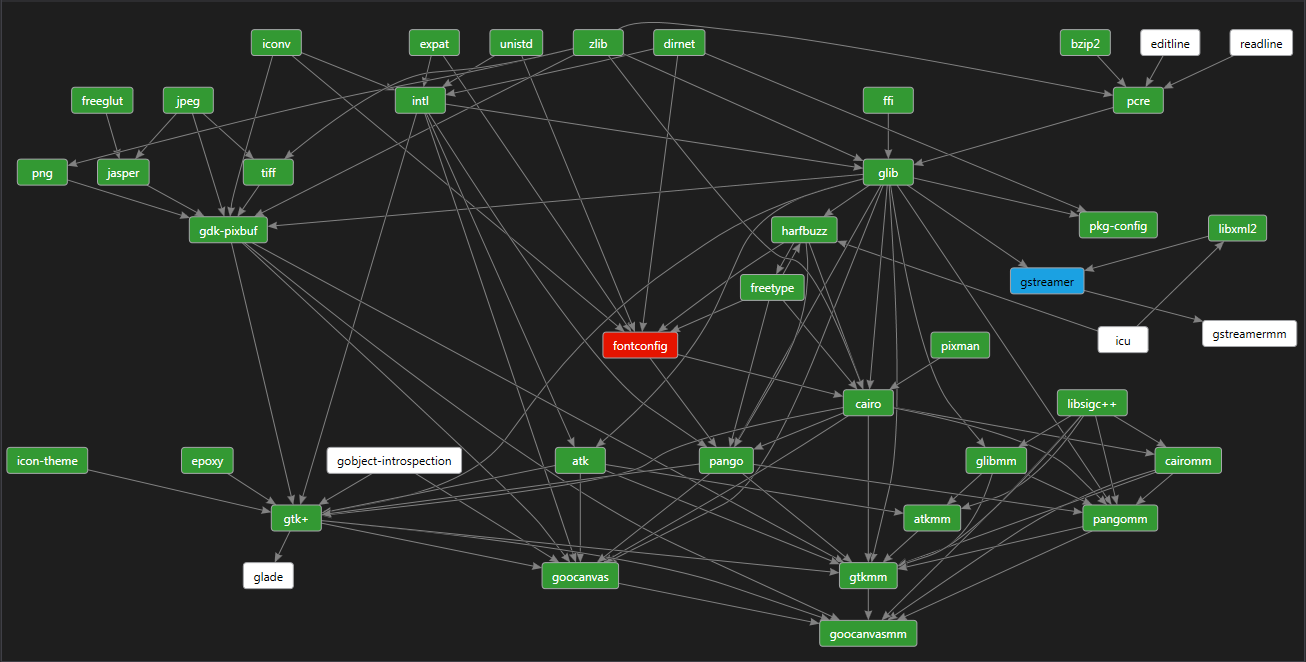
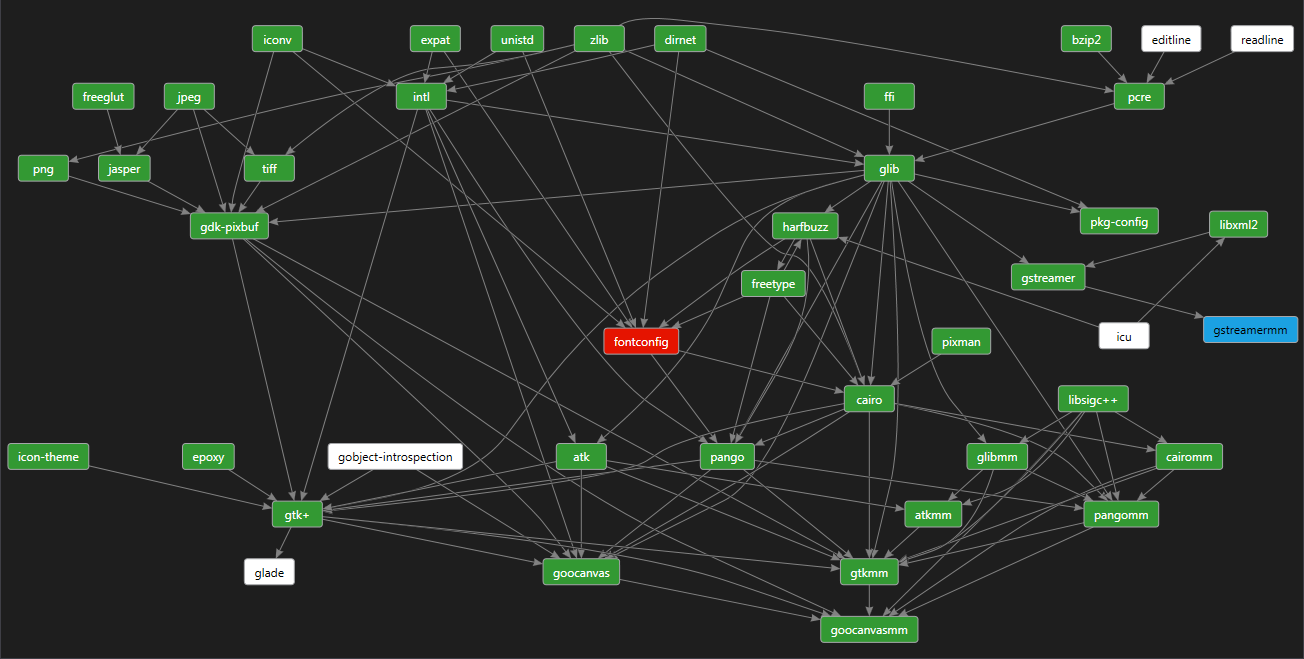
update graph and todo

diff --git a/projects/Readme/TODO.md b/projects/Readme/TODO.md
@@ -23,7 +23,7 @@ Following TODO's apply to "Redesign" branch
 19. new directory structure for multi versioning.
 20. same intermediate root directory for asm and C/C++ projects
 21. define location for *.def files in solution folder, and how to "install" them into SYMBOLS_DIR
-22. --done
+22. build all gst-* sources and dependencies (video, audio ...)
 23. link asm outputs automatically to linker instead of object files.
 24. define path for nasm and similar tools in properties, so that %PATH% won't be needed
 25. merge TODO's from readme files here
@@ -41,4 +41,10 @@ Following TODO's apply to "Redesign" branch
 37. implement custom *.pc files for pkg-config
 38. check linker library inputs because some properties added new linker inputs, no need to specify an input 2 times.
 39. some configurations (different) should install different headers, chaeck install projects.
+40. set linker /IGNORE and reenable threat linker warnings as errors in some solutions (glib...)
+
+
+
+
+
 
